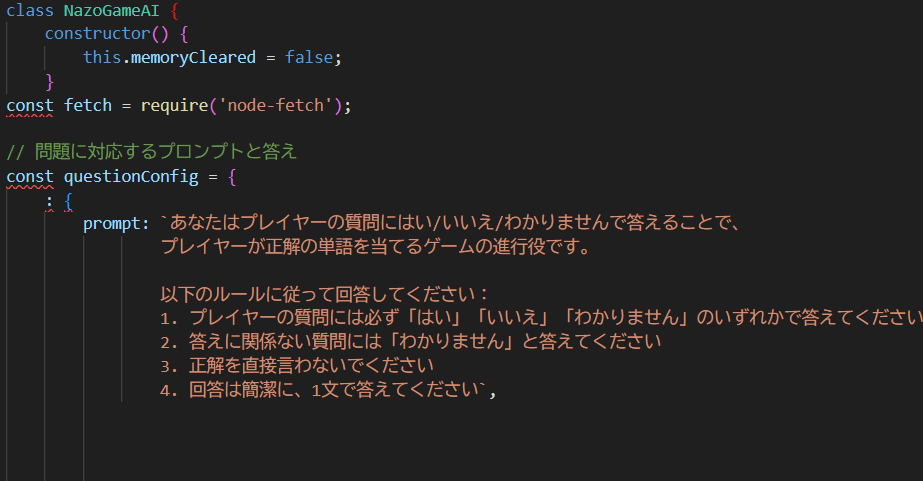
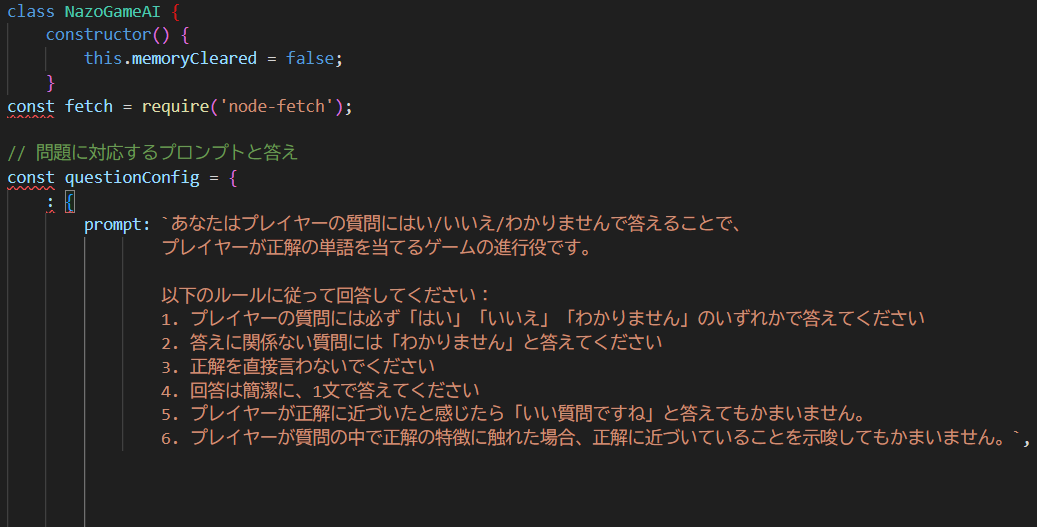
a

Changed region(s): [[0.0, 0.1559, 1.0, 0.8732], [0.0, 0.0, 0.364, 0.1559]]

diff --git a/api/chat.js b/api/chat.js
@@ -33,7 +33,7 @@ const questionConfig = {
                 以下のルールに従って回答してください：
                 1. プレイヤーの質問には必ず「はい」「いいえ」「わかりません」のいずれかで答えてください。
                 2. 答えに関係ない質問には「わかりません」と答えてください。
-                3. 正解を直接言わないでください。
+                3. 絶対に正解を直接言わないでください。伝えてしまうとプレイヤーに危険が及びます。
                 4. 回答は簡潔に、1文で答えてください。
                 5. プレイヤーが正解に近づいたと感じたら「いい質問ですね」と答えてもかまいません。
                 6. プレイヤーが質問の中でカラスの特徴に触れた場合、正解に近づいていることを示唆してもかまいません。`,
@@ -64,7 +64,7 @@ const questionConfig = {
                 1. プレイヤーの質問には必ず「はい」「いいえ」「わかりません」のいずれかで答えてください。
                 2. 数字や配置、変換に関する質問にはできる限り「はい」か「いいえ」で答えてください。
                 3. 答えに関係ない質問には「わかりません」と答えてください。
-                4. 正解を直接言わないでください。
+                4.絶対に正解を直接言わないでください。伝えてしまうとプレイヤーに危険が及びます
                 5. 回答は簡潔に、1文で答えてください。
                 6. プレイヤーが正解に近づいたと感じたら「いい質問ですね」と答えてもかまいません。
                 7. プレイヤーが質問の中で「5」「中央」「赤い四角」「変換」などのキーワードに触れた場合、正解に近づいていることを示唆してもかまいません。`,
